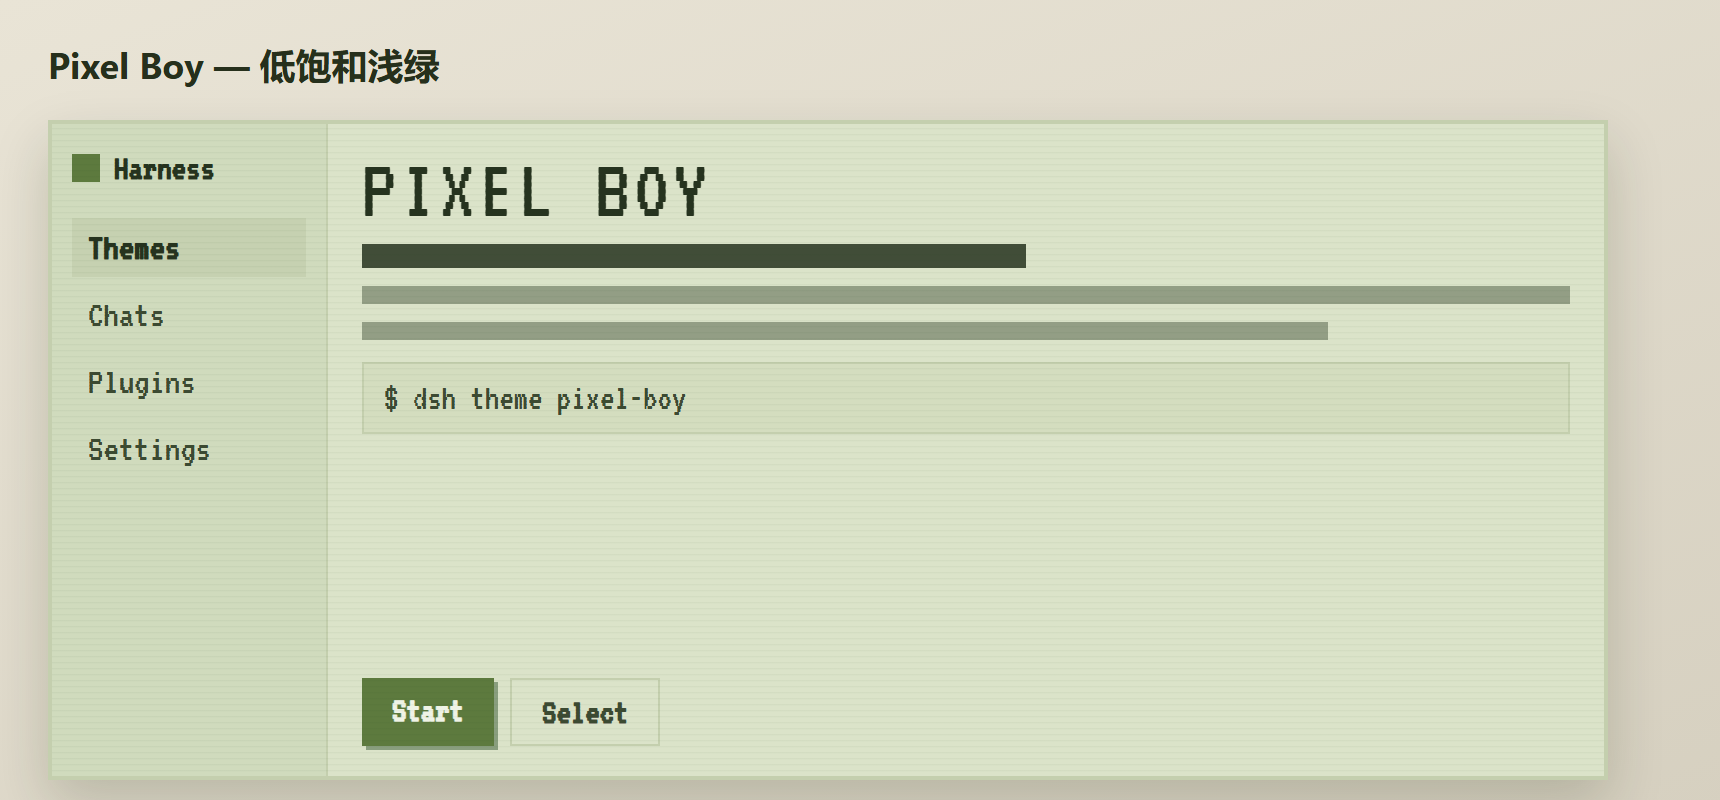
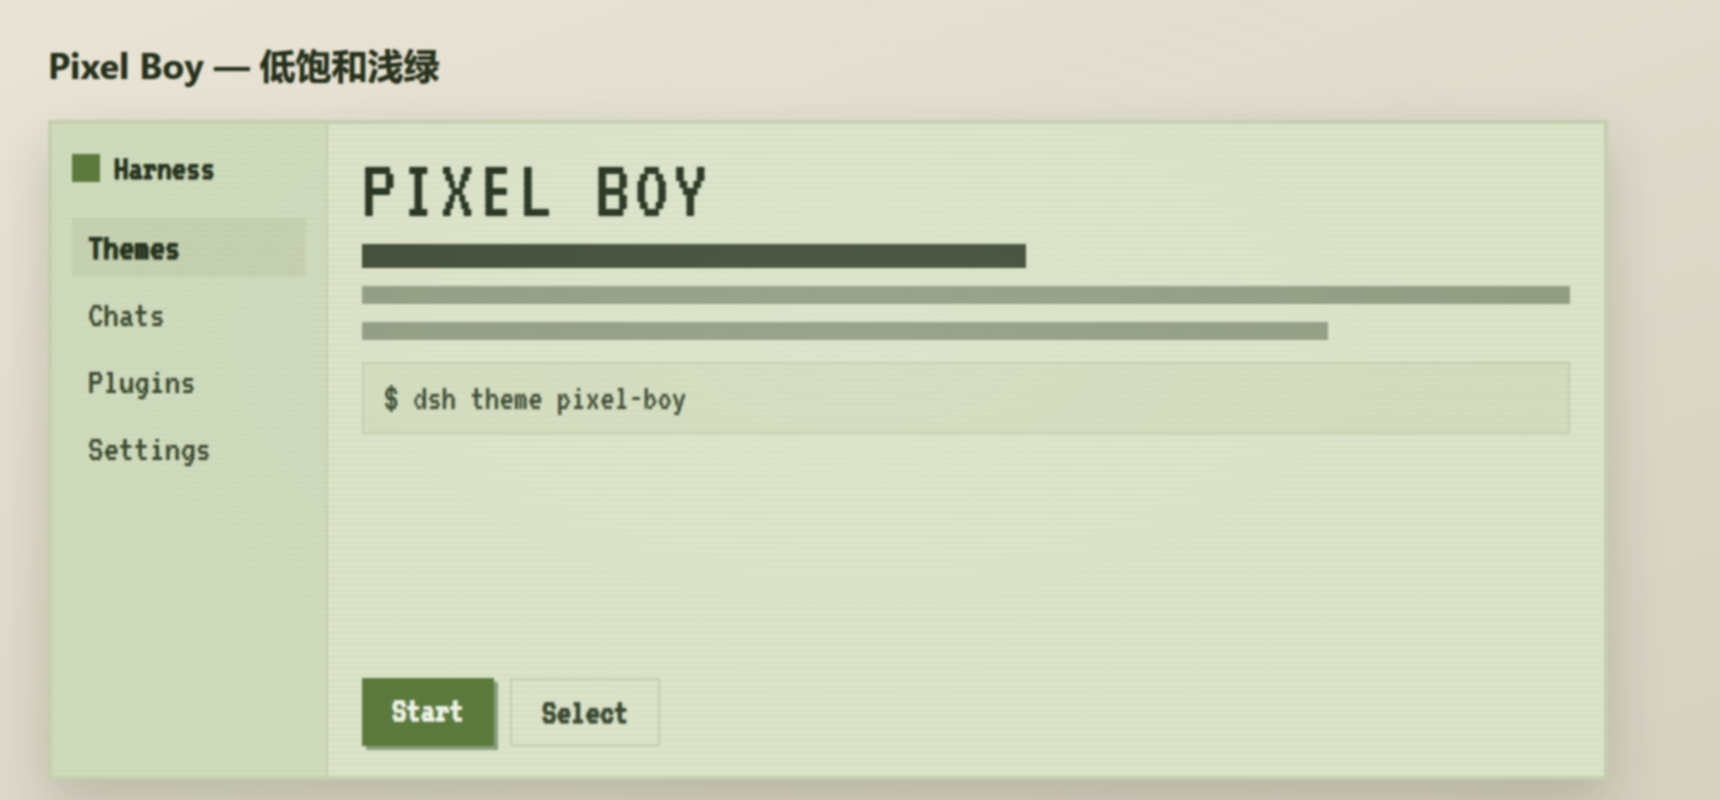
fix(pixel-boy): add soft screen blur

diff --git a/client.js b/client.js
@@ -37,7 +37,7 @@ window.__ModuleLoader__.load({
   "pixel-mono.name": "Retro TV",
   "pixel-mono.desc": "Old black-and-white television: high-contrast grayscale, scanlines, film grain and a rounded CRT screen.",
   "pixel-boy.name": "Pixel Boy",
-  "pixel-boy.desc": "Muted pale-green handheld LCD: scanlines and pixel font."
+  "pixel-boy.desc": "Muted pale-green handheld LCD with soft blur and scanlines."
 };
     const ZH = {
   "label": "复古像素主题",
@@ -69,7 +69,7 @@ window.__ModuleLoader__.load({
   "pixel-mono.name": "复古黑白电视",
   "pixel-mono.desc": "复古旧式黑白电视：高对比灰阶、扫描线、胶片颗粒与圆角 CRT 屏。",
   "pixel-boy.name": "像素掌机",
-  "pixel-boy.desc": "低饱和浅绿掌机液晶屏：扫描线与像素字体。"
+  "pixel-boy.desc": "低饱和浅绿掌机液晶屏：柔和模糊与扫描线。"
 };
 
     const STYLES = [
@@ -647,7 +647,7 @@ window.__ModuleLoader__.load({
 
[1 lines of base64/hex data omitted]
 
[2 lines of base64/hex data omitted]
 
     function readStored() {
       try {

diff --git a/README.md b/README.md
@@ -17,7 +17,7 @@
 | **冰蓝屏 Ice CRT** | 清冷的冰蓝 CRT 荧光 |
 | **霓虹品红 Synthwave** | 品红霓虹的蒸汽波风 |
 | **复古黑白电视 Retro TV** | 复古旧式黑白电视：灰阶、粗扫描线、胶片颗粒、圆角 CRT 屏框 |
-| **像素掌机 Pixel Boy** | 低饱和浅绿掌机液晶屏：扫描线、像素字体 |
+| **像素掌机 Pixel Boy** | 低饱和浅绿液晶屏：柔和模糊、扫描线、像素字体 |
 | **暮色沙丘 Sunset Dune** | 琥珀→玫瑰→暮紫的黄昏渐变，柔和暖光 |
 
 ## 工作原理

diff --git a/README.en.md b/README.en.md
@@ -17,7 +17,7 @@ Open it to restyle the entire application with one of twelve visual styles (seve
 | **Ice CRT** | Cool cyan CRT glow |
 | **Synthwave** | Hot magenta vaporwave neon |
 | **Retro TV** | Old black-and-white television: grayscale palette, thick scanlines, film grain, rounded CRT frame |
-| **Pixel Boy** | Muted pale-green handheld LCD: scanlines, pixel font |
+| **Pixel Boy** | Muted pale-green LCD: soft blur, scanlines, pixel font |
 | **Sunset Dune** | Dusk gradient of amber, rose and violet — soft warm glow |
 
 ## How it works
